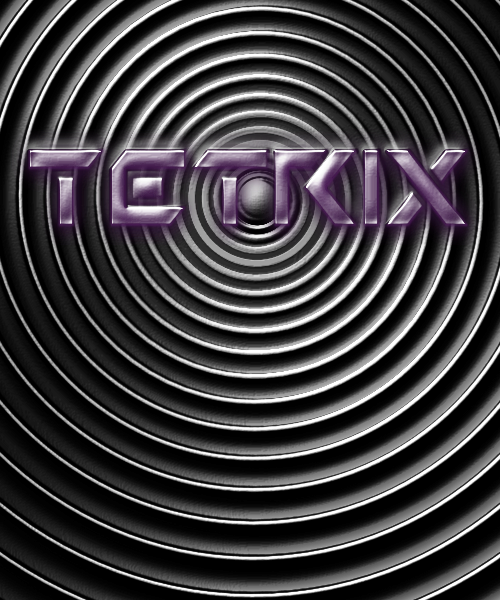
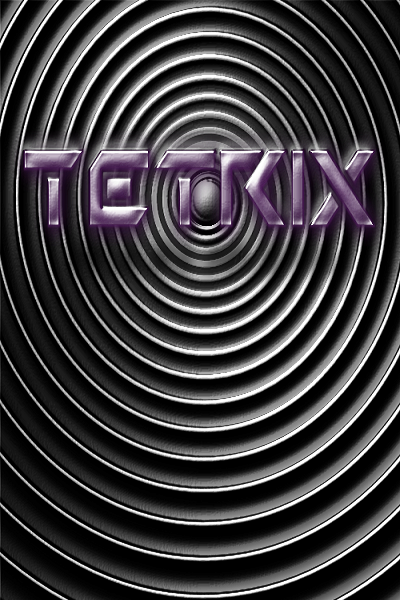
changed the views

diff --git a/src/tetrix/view/MainMenuView.java b/src/tetrix/view/MainMenuView.java
@@ -3,9 +3,12 @@ package tetrix.view;
 import org.newdawn.slick.GameContainer;
 import org.newdawn.slick.Graphics;
 import org.newdawn.slick.Image;
+import org.newdawn.slick.Input;
 import org.newdawn.slick.SlickException;
 import org.newdawn.slick.state.BasicGameState;
 import org.newdawn.slick.state.StateBasedGame;
+
+import tetrix.Main.States;
 
 /**
  * Class responsible for the view before the game starts where the user has to choose difficulty.
@@ -16,29 +19,88 @@ public class MainMenuView extends BasicGameState{
 
 	private int stateID;
 	private Image background;
+	private Image startGame;
+	private Image startGameMouseOver;
+	private Image exitGame;
+	private Image exitGameMouseOver;
+	
+	private int startGameXpos;
+	private int startGameYpos;
+	private int exitGameXpos;
+	private int exitGameYpos;
+	 
+	private boolean inStartGameArea = false;
+	private boolean inExitGameArea = false;
 	
 	public MainMenuView(int stateID) {
         this.stateID = stateID;
     }
 	
 	@Override
-	public void init(GameContainer arg0, StateBasedGame arg1)
+	public void init(GameContainer gc, StateBasedGame sbg)
 			throws SlickException {
-		background = new Image("img/game-background.png");	
+		background = new Image("img/menubackg.png");
+		startGame = new Image("img/startGame.png");
+		startGameMouseOver = new Image("img/startGameMouseOver.png");
+		startGameXpos = 200-(startGame.getWidth()/2);
+		startGameYpos = 300;
+		exitGame = new Image("img/exit.png");
+		exitGameMouseOver = new Image("img/exitMouseOver.png");
+		exitGameXpos = 200-(exitGame.getWidth()/2);
+		exitGameYpos = 375;
 	}
 
 	@Override
-	public void render(GameContainer arg0, StateBasedGame arg1, Graphics arg2)
+	public void render(GameContainer gc, StateBasedGame sbg, Graphics arg2)
 			throws SlickException {
 		background.draw(0,0);
-		
+		startGame.draw(startGameXpos, startGameYpos);
+		exitGame.draw(exitGameXpos, exitGameYpos);
+		if(inStartGameArea){
+			startGameMouseOver.draw(startGameXpos, startGameYpos);
+		} else {
+			startGame.draw(startGameXpos, startGameYpos);
+		}
+
+		if(inExitGameArea){
+			exitGameMouseOver.draw(exitGameXpos, exitGameYpos);
+		} else {
+			exitGame.draw(exitGameXpos, exitGameYpos);
+		}
 	}
 
 	@Override
-	public void update(GameContainer arg0, StateBasedGame arg1, int arg2)
+	public void update(GameContainer gc, StateBasedGame sbg, int arg2)
 			throws SlickException {
 		// TODO Auto-generated method stub
 		
+		Input input = gc.getInput();
+		 
+		int mouseX = input.getMouseX();
+		int mouseY = input.getMouseY();
+		 
+		if( ( mouseX >= startGameXpos && mouseX <= startGameXpos + startGame.getWidth()) &&
+		    ( mouseY >= startGameYpos && mouseY <= startGameYpos + startGame.getHeight()) ){
+			inStartGameArea = true;
+		} else{
+			inStartGameArea = false;
+		}
+		if ( (mouseX >= exitGameXpos && mouseX <= exitGameXpos + exitGame.getWidth()) &&
+			    ( mouseY >= exitGameYpos && mouseY <= exitGameYpos + exitGame.getHeight())){
+					inExitGameArea = true;
+		} else {
+			inExitGameArea = false;
+		}
+		
+		if(inStartGameArea){
+			if (input.isMouseButtonDown(Input.MOUSE_LEFT_BUTTON) ){
+				sbg.enterState(States.GAMEPLAYVIEW.getID());
+			}
+		} else if (inExitGameArea){
+			if (input.isMouseButtonDown(Input.MOUSE_LEFT_BUTTON) ){
+				gc.exit();
+			}
+		}
 	}
 
 	@Override

diff --git a/src/tetrix/view/IntroView.java b/src/tetrix/view/IntroView.java
@@ -10,7 +10,6 @@ import org.newdawn.slick.Image;
 
 import tetrix.Main.States;
 
-
 /**
  * Class responsible for the intro sequence where the user is expected to "press start".
  * @author Linus Karlsson
@@ -21,14 +20,13 @@ public class IntroView extends BasicGameState{
 	private int stateID;
 	
 	private Image background;
-	private Image pressStart;
-	private Image pressStartMouseOver;
-	
-	
-	private int pressStartXpos = 82;
-	private int pressStartYpos = 300;
+	private Image clickHere;
+	private Image clickHereMouseOver;
+
+	private int clickHereXpos;
+	private int clickHereYpos;
 	 
-	private boolean inPressStartArea = false;
+	private boolean inClickHereArea = false;
 	
 	public IntroView(int stateID) {
 		this.stateID = stateID;
@@ -38,19 +36,21 @@ public class IntroView extends BasicGameState{
 	public void init(GameContainer gc, StateBasedGame sbg)
 			throws SlickException {
 		background = new Image("img/introbackg.png");
-		pressStart = new Image("img/startGame.png");
-		pressStartMouseOver = new Image("img/startGameMouseOver.png");
+		clickHere = new Image("img/clickHere.png");
+		clickHereMouseOver = new Image("img/clickHereMouseOver.png");
+		clickHereXpos = 200-(clickHere.getWidth()/2);
+		clickHereYpos = 414;
 	}
 
 	@Override
 	public void render(GameContainer gc, StateBasedGame sbg, Graphics arg2)
 			throws SlickException {
-		background.draw(0, 0);
-		pressStart.draw(pressStartXpos, pressStartYpos);
-		if(inPressStartArea){
-			pressStartMouseOver.draw(pressStartXpos, pressStartYpos);
+		background.draw(0,0);
+		clickHere.draw(clickHereXpos, clickHereYpos);
+		if(inClickHereArea){
+			clickHereMouseOver.draw(clickHereXpos, clickHereYpos);
 		} else {
-			pressStart.draw(pressStartXpos, pressStartYpos);
+			clickHere.draw(clickHereXpos, clickHereYpos);
 		}
 	}
 
@@ -63,16 +63,15 @@ public class IntroView extends BasicGameState{
 		int mouseX = input.getMouseX();
 		int mouseY = input.getMouseY();
 		 
-		if( ( mouseX >= pressStartXpos && mouseX <= pressStartXpos + pressStart.getWidth()) &&
-		    ( mouseY >= pressStartYpos && mouseY <= pressStartYpos + pressStart.getHeight()) ){
-			inPressStartArea = true;
+		if( ( mouseX >= clickHereXpos && mouseX <= clickHereXpos + clickHere.getWidth()) &&
+			( mouseY >= clickHereYpos && mouseY <= clickHereYpos + clickHere.getHeight()) ){
+			inClickHereArea = true;
 		} else{
-			inPressStartArea = false;
+			inClickHereArea = false;
 		}
-		
-		if(inPressStartArea){
+		if(inClickHereArea){
 			if (input.isMouseButtonDown(Input.MOUSE_LEFT_BUTTON) ){
-				sbg.enterState(States.GAMEPLAYVIEW.getID());
+				sbg.enterState(States.MAINMENUVIEW.getID());
 			}
 		}
 	}
